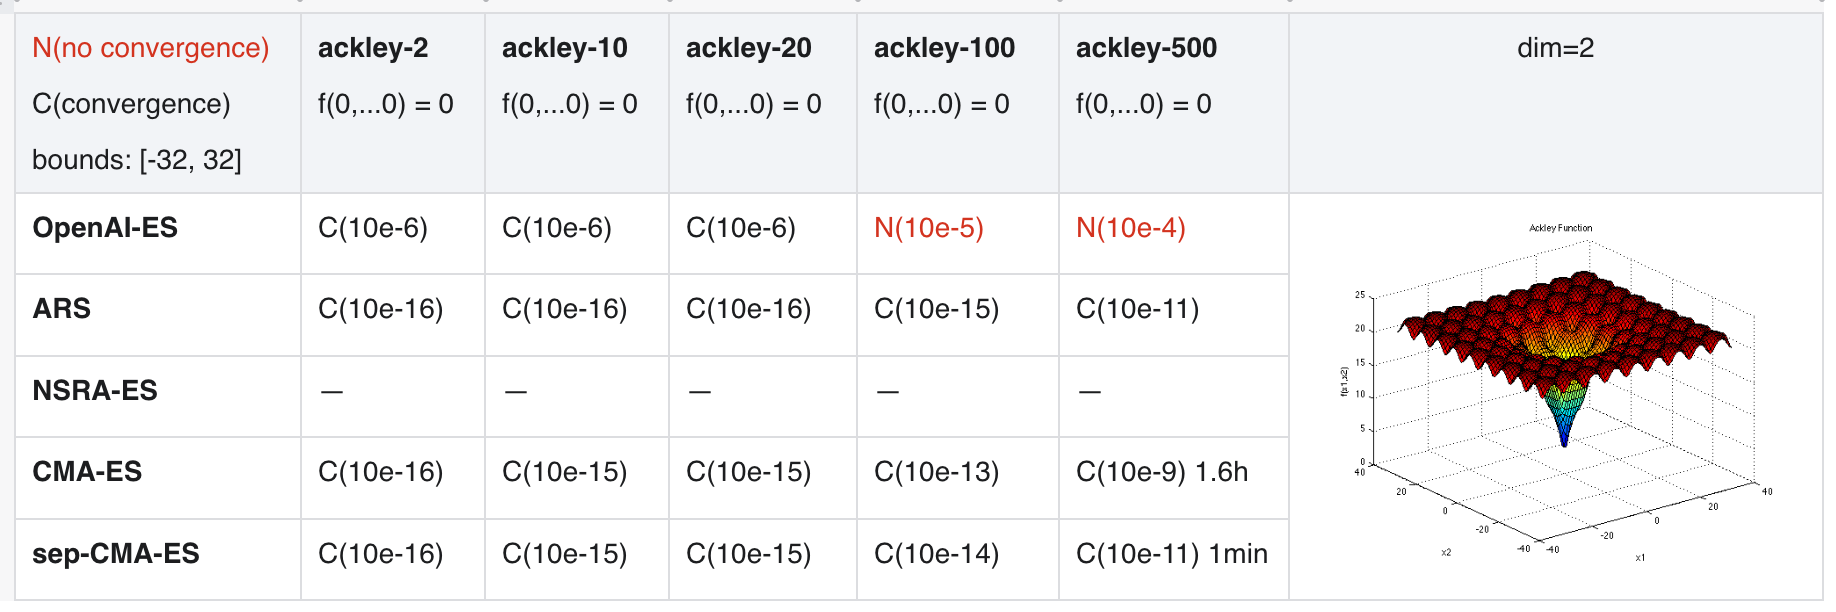
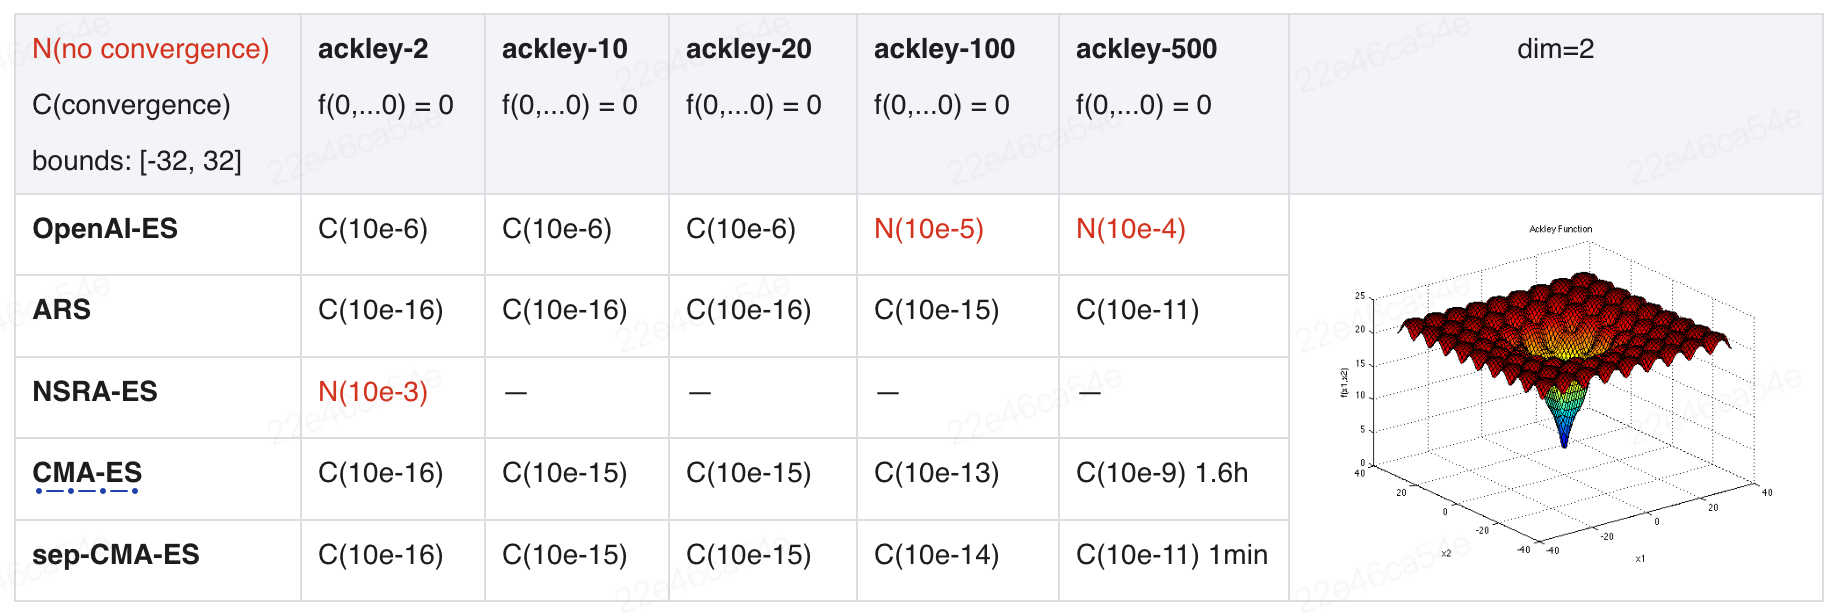
update func results

diff --git a/examples/README.md b/examples/README.md
@@ -11,7 +11,7 @@ Examples and results of five algorithms on the two built-in problems.
     <img src=".results/griewank_results.png" alt="griewank_results">
     </p>       
 
-    Note: 1. NSRA-ES is of little significance in this question, so no comparative experiments are conducted. 2. At dim=500, the difficulty of the problem increases, and we increase the sample_num to achieve the convergence effect (sample_num=200 for ARS, sample_num=500 for CMAES and Sep-CMAES).  
+    Note: At dim=500, the difficulty of the problem increases, and we increase the sample_num to achieve the convergence effect (sample_num=200 for ARS, sample_num=500 for CMAES and Sep-CMAES).  
 
 + Results of five algorithms in two reinforcement learning environments (HalfCheetah-v2 and Humanoid-v2). (model network for optimization)
 

diff --git a/examples/README_cn.md b/examples/README_cn.md
@@ -11,7 +11,7 @@
     <img src=".results/griewank_results.png" alt="griewank_results">
     </p>       
 
-    提示：1. NSRA-ES 在该问题下意义欠缺，因此不做对比实验。 2. 在 dim=500 时，问题难度升级，我们加大了 sample_num 以达到收敛效果（ARS的 sample_num=200，CMAES和Sep-CMAES的 sample_num=500）。  
+    提示：在 dim=500 时，问题难度升级，我们加大了 sample_num 以达到收敛效果（ARS的 sample_num=200，CMAES和Sep-CMAES的 sample_num=500）。  
  
 + 五个算法在两个强化学习环境（HalfCheetah-v2 和 Humanoid-v2）中的实验结果。（直接优化策略模型）
 
